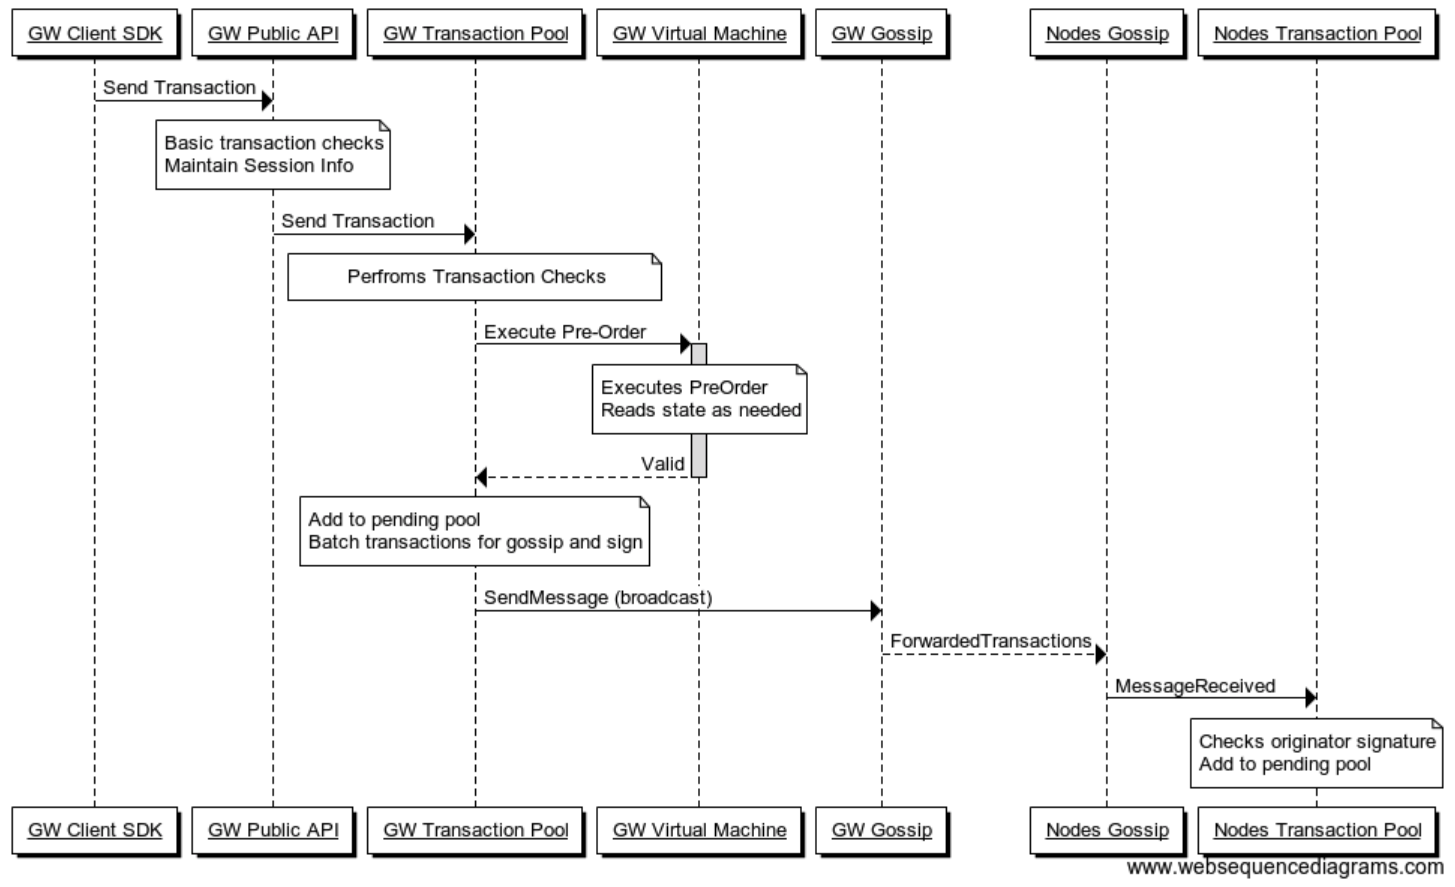
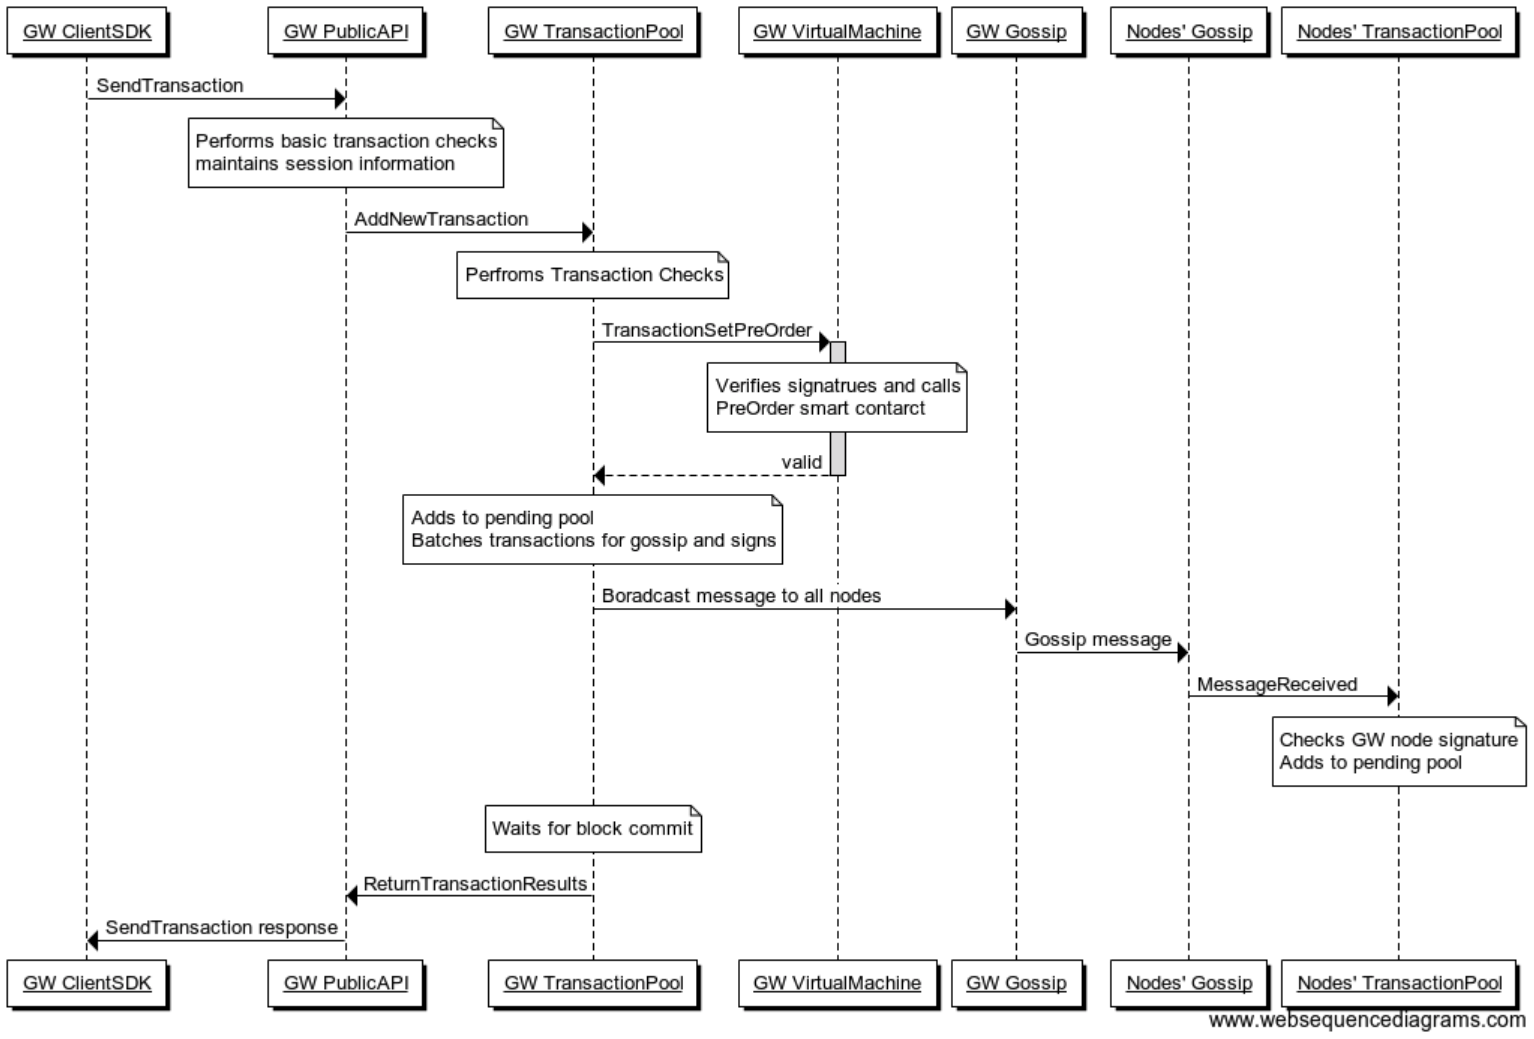
Flow diagrams

Changed region(s): [[0.0, 0.0, 1.0, 0.6392], [0.0, 0.6392, 1.0, 1.0], [0.6495, 0.5784, 0.7732, 0.6392]]

diff --git a/behaviors/flows/block-creation-before-commit.md b/behaviors/flows/block-creation-before-commit.md
@@ -73,3 +73,18 @@
       * `VirtualMachine` of non-leader committee member:
         * Depending on contract code may reads state from `StateStorage` or `CrosschainConnector`.
         * Generates transaction receipts and state diff for comparison.
+
+
+&nbsp;
+## Block Creation Flow Before Commit, Leader Node
+
+![alt text][block_creation_before_commit_leader] <br/><br/>
+
+[block_creation_before_commit_leader]: ../_img/block_creation_before_commit_leader.png "block_creation_before_commit_leader"
+
+&nbsp;
+## Block Creation Flow Before Commit, Non-leader Node
+
+![alt text][block_creation_before_commit_non_leader] <br/><br/>
+
+[block_creation_before_commit_non_leader]: ../_img/block_creation_before_commit_non_leader.png "block_creation_before_commit_non_leader"

diff --git a/behaviors/flows/block-creation-after-commit.md b/behaviors/flows/block-creation-after-commit.md
@@ -37,3 +37,11 @@
     * `TransactionPool` of non committee member:
       * Moves the transactions from pending to committed pool.
       * If this was the gateway node that added a transaction to the network, notify `PublicApi` to respond to the client.
+
+
+&nbsp;
+## Block Creation Flow After Commit
+
+![alt text][block_creation_after_commit] <br/><br/>
+
+[block_creation_after_commit]: ../_img/block_creation_after_commit.png "block_creation_after_commit"

diff --git a/behaviors/flows/send-transaction.md b/behaviors/flows/send-transaction.md
@@ -57,12 +57,9 @@ Transaction is processed under consensus (this is part of the [continuous block 
 
   * Responds to the client.
 
-
-<!--
-TODO: oded add the diagrams again
+&nbsp;
 ## Send Transaction Flow Diagram
 
 ![alt text][send_transaction_flow] <br/><br/>
 
 [send_transaction_flow]: ../_img/send_transaction_flow.png "Send transction"
--->
